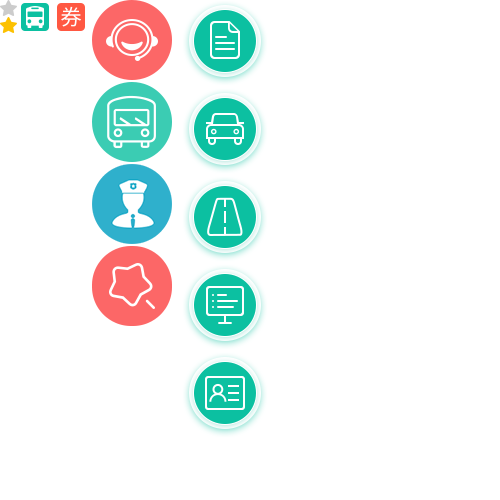
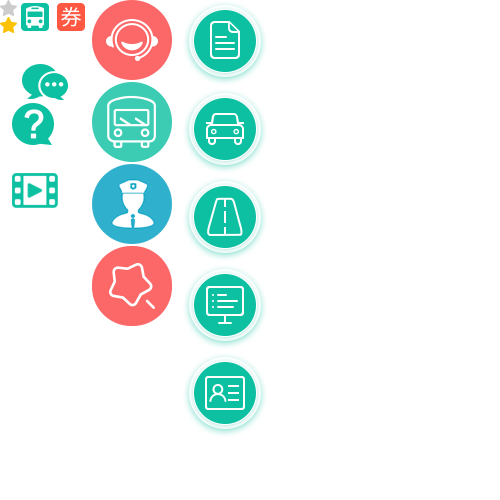
项目完善

Changed region(s): [[0.0, 0.12, 0.15, 0.3], [0.0, 0.33, 0.12, 0.42]]

diff --git a/src/page/s1.vue b/src/page/s1.vue
@@ -1,14 +1,32 @@
 <template>
 <div class="s1">
     <ul class="nav display-flex">
-        <router-link tag="li" class="flex" v-for="nav in navList" :to="''" :key="nav">
+        <router-link class="flex" v-for="nav in navList" :to="''" :key="nav">
             <div class="img"><img :src="nav.img" :alt="nav.name"></div>
             <p>{{nav.name}}</p>
         </router-link>
     </ul>
-    <p class="groups mt-20"><i class="icon-social-youtube text-main"></i>视频教学</p>
-    <ul class="video display-flex">
-        <router-link tag="li" class="flex" :to="''" :key="''"></router-link>
+    <div class="groups mt-20 display-flex">
+        <i class="icon-social-youtube text-main"></i>
+        <span class="pl-20 flex">视频教学</span>
+    </div>
+    <ul class="video cf">
+        <router-link tag="li" class="box-sizing" :to="''" :key="''">
+            <div class="img icon-control-play"><img v-lazy="'/static/images/dome/s1.jpg'" alt=""></div>
+            <p>科目一考试视频，妈妈再也不用担心我</p>
+        </router-link>
+        <router-link tag="li" class="box-sizing" :to="''" :key="''">
+            <div class="img icon-control-play"><img v-lazy="'/static/images/dome/s1.jpg'" alt=""></div>
+            <p>科目一考试视频，妈妈再也不用担心我</p>
+        </router-link>
+        <router-link tag="li" class="box-sizing" :to="''" :key="''">
+            <div class="img icon-control-play"><img v-lazy="'/static/images/dome/s1.jpg'" alt=""></div>
+            <p>科目一考试视频，妈妈再也不用担心我</p>
+        </router-link>
+        <router-link tag="li" class="box-sizing" :to="''" :key="''">
+            <div class="img icon-control-play"><img v-lazy="'/static/images/dome/s1.jpg'" alt=""></div>
+            <p>科目一考试视频，妈妈再也不用担心我</p>
+        </router-link>
     </ul>
 </div>
 </template>
@@ -40,7 +58,8 @@ export default {
     .nav {
         background-color: #fff;
         border-bottom: border();
-        li {
+        a {
+            display: block;
             text-align: center;
             border-right: border();
             &:last-child {
@@ -55,7 +74,36 @@ export default {
             p {
                 font-size: rem(25px);
                 color: #3f3f3f;
-                padding:  rem(15px) 0 rem(25px);
+                padding: rem(15px) 0 rem(25px);
+            }
+        }
+    }
+    .icon-social-youtube {
+        font-size: rem(38px);
+    }
+    .video {
+        padding: rem(20px) rem(15px);
+        background-color: #fff;
+        li {
+            width: 50%;
+            padding: 0 rem(15px);
+            float: left;
+            .img {
+                width: 100%;
+                height: rem(189px);
+                border-radius: rem(10px);
+                position: relative;
+                overflow: hidden;
+                &:before {
+                    font-size: rem(40px);
+                    color: #fff;
+                    @include relativeCenter();
+                }
+            }
+            p {
+                font-size: rem(22px);
+                margin: rem(18px) 0;
+                @include lineClamp(1);
             }
         }
     }

diff --git a/src/components/header.vue b/src/components/header.vue
@@ -1,10 +1,10 @@
 <template>
 <div class="header-cell">
 	<i class="fa fa-angle-left" v-if="options.back" @click="$router.go(-1)"></i>
-    <i class="icon-bubble" v-if="options.speech"></i>
-    <i class="icon-magnifier right" v-if="options.search"></i>
-    <i class="icon-share-alt right" v-if="options.share"></i>
-    <i class="collect right" v-if="options.collect"></i>
+    <i class="icon-bubble" v-if="options.speech || false"></i>
+    <i class="icon-magnifier right" v-if="options.search || false"></i>
+    <i class="icon-share-alt right" v-if="options.share || false"></i>
+    <i class="collect right" v-if="options.collect || false"></i>
     <div class="title"><slot></slot></div>
 </div>
 </template>
@@ -16,9 +16,7 @@ export default {
 		options: {
 			type: Object,
 			default: {
-				'back': true,
-				'search': false,
-				'collect': false
+				'back': true
 			}
 		}
 	},

diff --git a/src/main.js b/src/main.js
@@ -12,10 +12,10 @@ import app from './app'
 // 引入vue-lazyload实现异步加载
 import VueLazyload from 'vue-lazyload'
 Vue.use(VueLazyload, {
-  preLoad: 1,
-  error: '/static/images/error.jpg',
-  loading: '/static/images/loading.jpg',
-  attempt: 2
+	preLoad: 1,
+	error: '/static/images/error.jpg',
+	loading: '/static/images/loading.jpg',
+	attempt: 2
 })
 
 import Message from '@/components/message/index'

diff --git a/static/style/mixin.scss b/static/style/mixin.scss
@@ -31,3 +31,9 @@ $header-height: rem(87px) !default;
     -webkit-box-orient:vertical;
     -webkit-line-clamp:$n; 
 }
+@mixin relativeCenter() {
+	position: absolute;
+	top: 50%;
+	left: 50%;
+	transform: translate(-50%, -50%);
+}

diff --git a/static/style/common.scss b/static/style/common.scss
@@ -143,7 +143,7 @@ table {
 .router-link-active{
 	user-select: none;
 }
-.router-link-active:active {
+a.router-link-active:active {
 	background-color: $active-color;
 }
 .groups {
